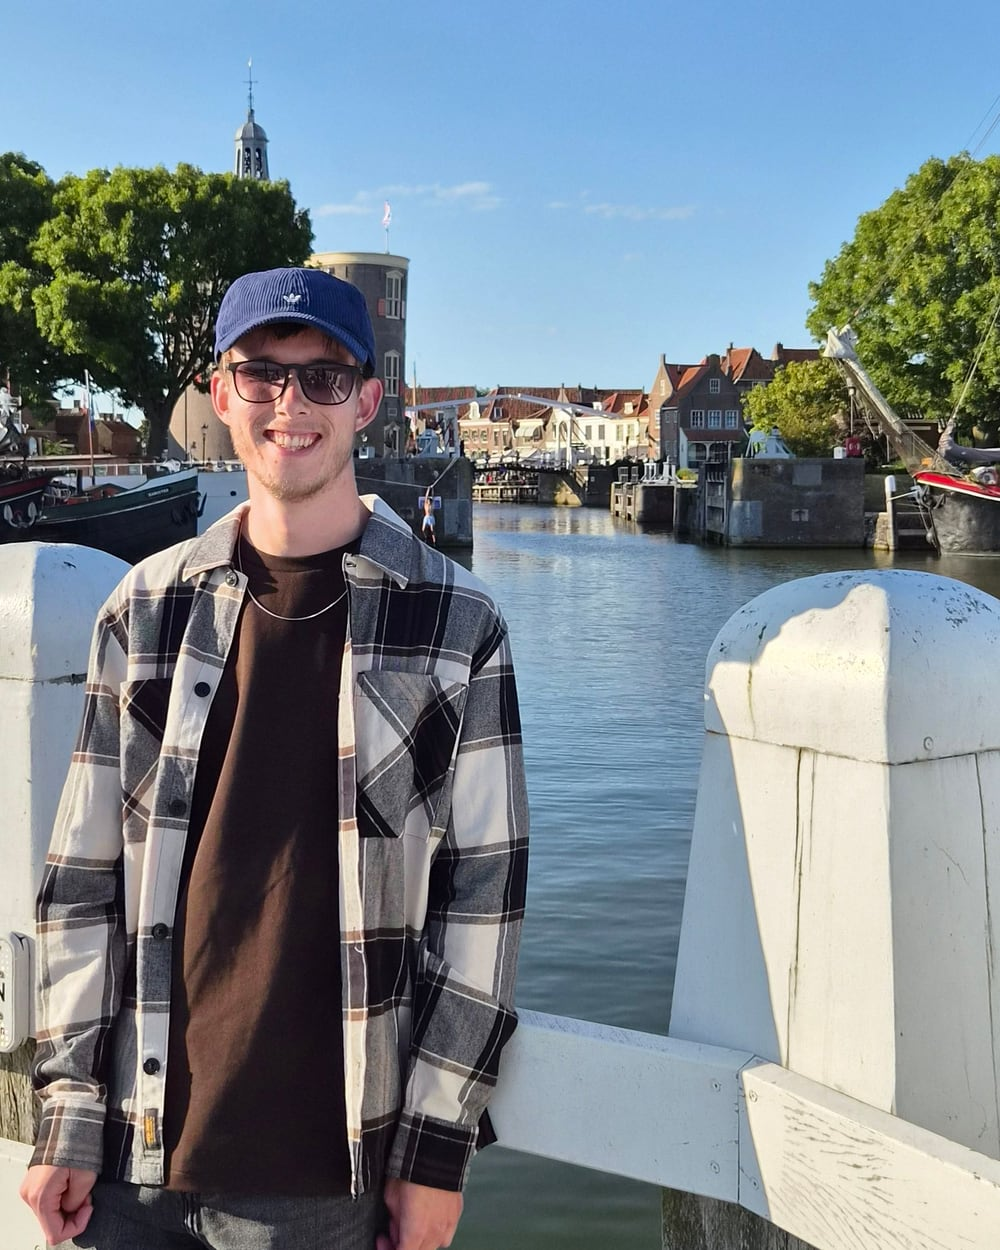
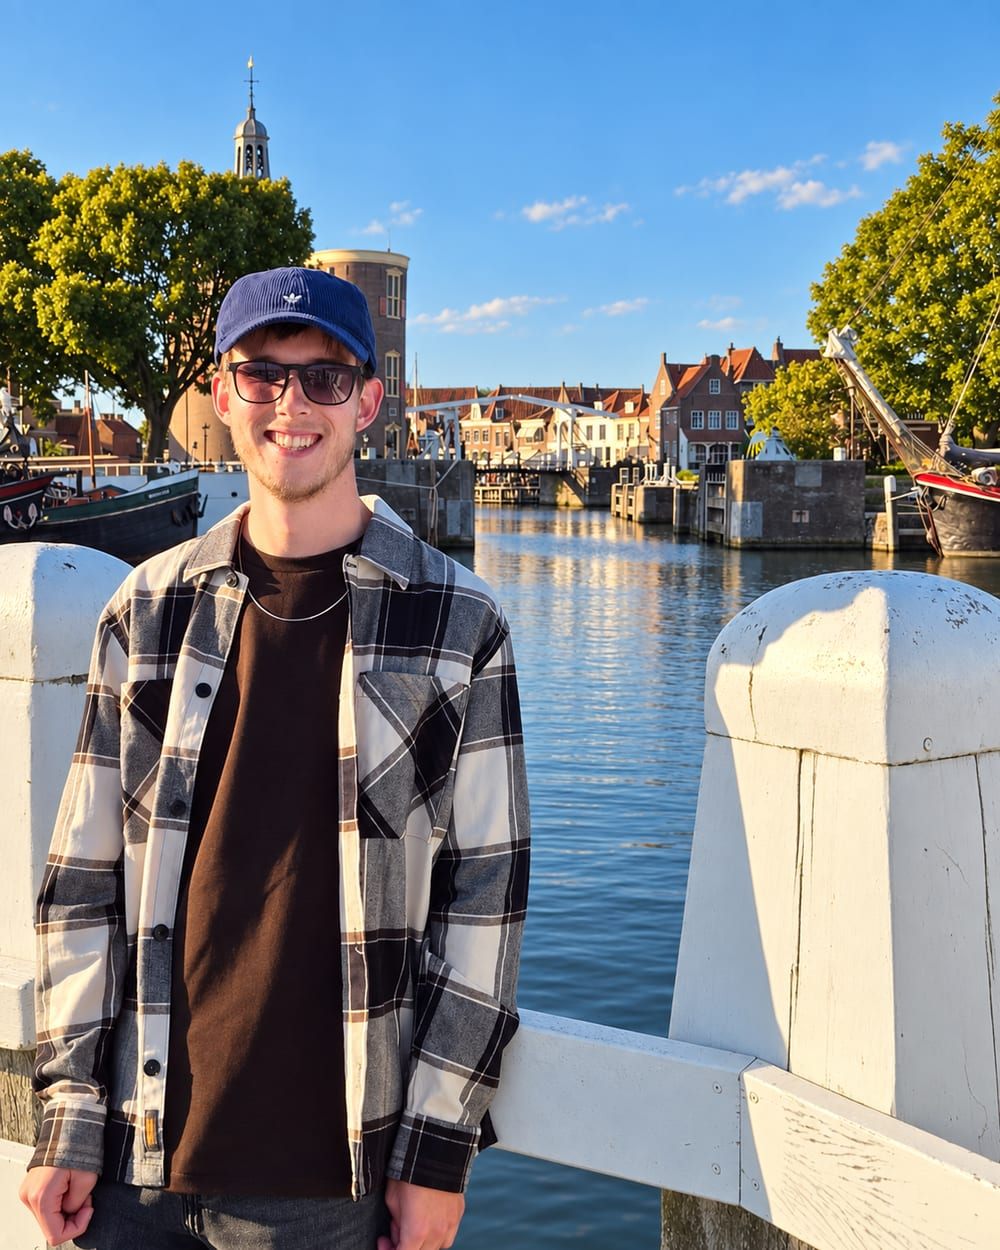
feat(images): Rick's retouched photos, and key art with the real apps in it
Rick's first round of images, made from the prompts: his own photos
retouched with an image model, and generated scenes with a flat green
screen.

- How I work and Contact take the retouched photos. The talk no longer
  has a slide or an audience: a blank screen and an empty room.
- NLZIET, KIJK and VAMP take new key art: each scene with Rick's own
  screenshot keyed into its screen locally, pixel for pixel, lighting
  the room around it. The interface is the real one; the model never
  saw it.
- The hero keeps its portrait. The new one, lit hard from one side,
  lost half the face in the black at the field's resolution.
- IMAGES.md says which images were retouched and which are
  illustrations. Alt texts describe the new pictures.
- The contact photo is encoded at quality 72: the retouched one is all
  fine detail and went over the 150 KB mark.

diff --git a/src/assets/IMAGES.md b/src/assets/IMAGES.md
@@ -1,47 +1,55 @@
-# Photographs — provenance
+# Images: provenance
 
-Every photograph on the one-pager is Rick's own. None is stock and none is generated.
+No image here is stock. The photographs are Rick's own, and two of them were retouched with an
+image model; the programme covers are illustrations built around his real screenshots. Which is
+which, and how, is recorded below, because a portfolio should be able to say.
 
 ## How they were prepared
 
-All of them were re-encoded through sharp, which drops every metadata block. **That matters here
-specifically:** five of the phone originals carried GPS coordinates. Nothing in this directory does,
-and `check-assets` fails the build on EXIF in `src/assets` and in `dist`, so a future photo cannot
-slip one through. The original file names are not kept either — phone file names are capture
-timestamps.
+All of them were re-encoded through sharp, which drops every metadata block, the content
+credentials an image model attaches included. **That matters here specifically:** five of the phone
+originals carried GPS coordinates. Nothing in this directory does, and `check-assets` fails the
+build on EXIF in `src/assets` and in `dist`, so a future image cannot slip one through. The original
+file names are not kept either: phone file names are capture timestamps.
 
-| File                 | What it is                                               | Used in                  |
-| -------------------- | -------------------------------------------------------- | ------------------------ |
-| `portrait.jpg`       | A tight face crop from the talk photo, with a soft matte | The hero character field |
-| `talk.jpg`           | Rick presenting                                          | Backdrop of _How I work_ |
-| `art/lighthouse.jpg` | A lighthouse silhouetted at sunset                       | Interlude / Signal       |
-| `art/tower.jpg`      | A stone clock tower against the sky                      | Interlude / Field        |
-| `about.jpg`          | Rick on a bridge by a canal                              | Contact                  |
+| File                  | What it is                                               | Used in                  |
+| --------------------- | -------------------------------------------------------- | ------------------------ |
+| `portrait.jpg`        | A tight face crop from the talk photo, with a soft matte | The hero character field |
+| `talk.jpg`            | Rick presenting, in front of a blank screen: retouched   | Backdrop of _How I work_ |
+| `about.jpg`           | Rick on a bridge by a canal: retouched                   | Contact                  |
+| `art/lighthouse.jpg`  | A lighthouse silhouetted at sunset                       | Interlude / Signal       |
+| `art/tower.jpg`       | A stone clock tower against the sky                      | Interlude / Field        |
+| `work/nlziet.jpg`     | Illustration: the NLZIET app on a TV, a real screenshot  | NLZIET key art           |
+| `work/kijk.jpg`       | Illustration: the KIJK app on a TV, a real screenshot    | KIJK key art             |
+| `work/vamp.jpg`       | Illustration: VAMP on a tablet, a real screenshot        | VAMP key art             |
+| `work/chromecast.jpg` | A Chromecast and its remote on a white surface           | Chromecast key art       |
 
-## The talk photo is edited, deliberately
+## The three retouched photographs
 
-The slide on screen named an internal tool at an internal event. That is the employer's to publish,
-not this site's, so **the slide is blurred in the file itself** — not with a CSS filter, which
-anyone opening the image directly would bypass. Both audience members are blurred the same way:
-colleagues at a work event did not agree to appear here, backs of heads or not.
+On 2026-09-25 Rick edited three of his own photographs with an image model, from prompts that asked
+for the lighting, the background and the crop to change and for his face to stay exactly as it is:
+edits of real photos, never a generated face.
 
-The blur is feathered through a soft mask so it reads as shallow depth of field rather than as a
-patch, and every blurred region stops short of Rick.
+Two of them are on the site, `talk.jpg` and `about.jpg`. The third, a portrait on flat black, was
+tried in the hero and not kept: lit hard from one side, half the face fell into the black at the
+field's resolution, and the old crop from the talk photo still reads better as characters. That
+crop keeps its soft elliptical matte, which crushes its lit background to black so the face comes
+out of empty field.
 
-## The portrait is interim
+## The covers are illustrations
 
-`portrait.jpg` is the best face in the set — no cap, eyes visible, side-lit by the screen — but it
-was not taken for this, and its background is lit. Every lit cell gets a glyph, so without the
-matte the portrait read as a textured rectangle with a face somewhere in it. The matte crushes
-everything outside a feathered ellipse to black, so the face comes out of empty field instead.
+A programme's key art is a generated scene, a TV or a tablet in a room lit in its channel's
+colours, with Rick's own screenshot of the app composited into the screen locally, pixel for pixel:
+the scene was generated with a flat green screen, and the screenshot was keyed into it rather than
+redrawn by the model, so the interface is the real one and no client screen went to the model. The
+programme art inside those screenshots belongs to the broadcasters.
 
-It works; it is not the finished signature piece. A purpose-shot portrait is pending: see
-`docs/art-system.md` § Changing the portrait.
+`work/chromecast.jpg` is the older cover and stays until a receiver screenshot replaces it.
 
-## How the set was chosen
+## How the photographs were chosen
 
-Twelve photographs were supplied. Each was put through a 1-bit Bayer dither at image resolution —
-the treatment they will actually get — rather than judged as a photograph. Seven did not survive
+Twelve photographs were supplied. Each was put through a 1-bit Bayer dither at image resolution,
+the treatment they will actually get, rather than judged as a photograph. Seven did not survive
 it: in most the subject is small in frame and the rest is mid-tone landscape with no dominant
 shape, which dithers to noise. Good photographs, poor dither sources.
 

diff --git a/src/content/work/vamp.md b/src/content/work/vamp.md
@@ -7,8 +7,8 @@ status: ongoing
 summary: A local-first, offline PWA for sketching chord progressions and looping backing tracks to practise over. No login, no backend, no accounts.
 tags: ['SvelteKit', 'Tone.js', 'PWA', 'Web Audio']
 channel: navy
-cover: ../../assets/work/vamp.png
-coverAlt: The VAMP chord sketchpad showing a jazz ii–V–I progression in C with chord chart notation.
+cover: ../../assets/work/vamp.jpg
+coverAlt: VAMP open on a tablet on a music stand, beside a brass trumpet on a wooden stool, under a warm spotlight.
 order: 3
 links:
   - label: Live app

diff --git a/src/content/work/nlziet.md b/src/content/work/nlziet.md
@@ -8,7 +8,7 @@ summary: Building the NLZIET streaming app across Smart TV platforms in Svelte a
 tags: ['Svelte', 'Connected TV', 'Bitmovin player']
 channel: crimson
 cover: ../../assets/work/nlziet.jpg
-coverAlt: The NLZIET wordmark in pink on a dark background.
+coverAlt: The NLZIET app on a TV on a low sideboard against a deep red wall, a pink light glowing beneath it.
 order: 1
 ---
 

diff --git a/src/content/work/kijk.md b/src/content/work/kijk.md
@@ -8,7 +8,7 @@ summary: A responsive Smart TV app experience for the KIJK streaming platform ac
 tags: ['Connected TV', 'Advertisements', 'THEOplayer']
 channel: ink
 cover: ../../assets/work/kijk.jpg
-coverAlt: The KIJK logo, an eye shape, on a purple to blue gradient.
+coverAlt: The KIJK app on a TV on a dark wall, a strip of yellow light along the floor below it.
 order: 4
 ---
 
